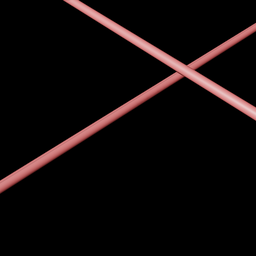
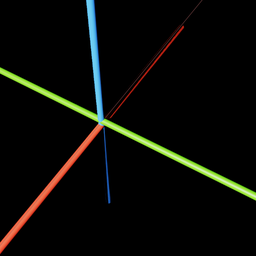
完成绳子场景搭建

Changed region(s): [[0.0, 0.0, 1.0, 1.0], [0.75, 0.0, 0.7812, 0.0312], [0.7188, 0.0625, 0.75, 0.0938]]

diff --git a/confi_rope_test.py b/confi_rope_test.py
@@ -43,8 +43,8 @@ class SceneCfg(InteractiveSceneCfg):
     rope: ArticulationCfg = ROPE_CFG.replace(
         prim_path="{ENV_REGEX_NS}/Rope"
     )
-    rope.init_state.pos = (0.0, 0.0, 0.3)
-    rope.init_state.rot = (0.5, 0.5, 0.5, 0.5)
+    rope.init_state.pos = (-0.1, 0.0, 0.3)
+    rope.init_state.rot = (0.7071, 0.7071, 0.0, 0.0)
 
 
 '''

diff --git a/model_configs.py b/model_configs.py
@@ -210,6 +210,8 @@ ROPE_CFG = ArticulationCfg(
     init_state=ArticulationCfg.InitialStateCfg(
         pos=(0.0, 0.0, 0.5),
         rot=(1.0, 0.0, 0.0, 0.0),
-        joint_pos={".*": 0.0},
+        joint_pos={
+            "joint..:(1)": 0.2,
+        },
     ),
 )
